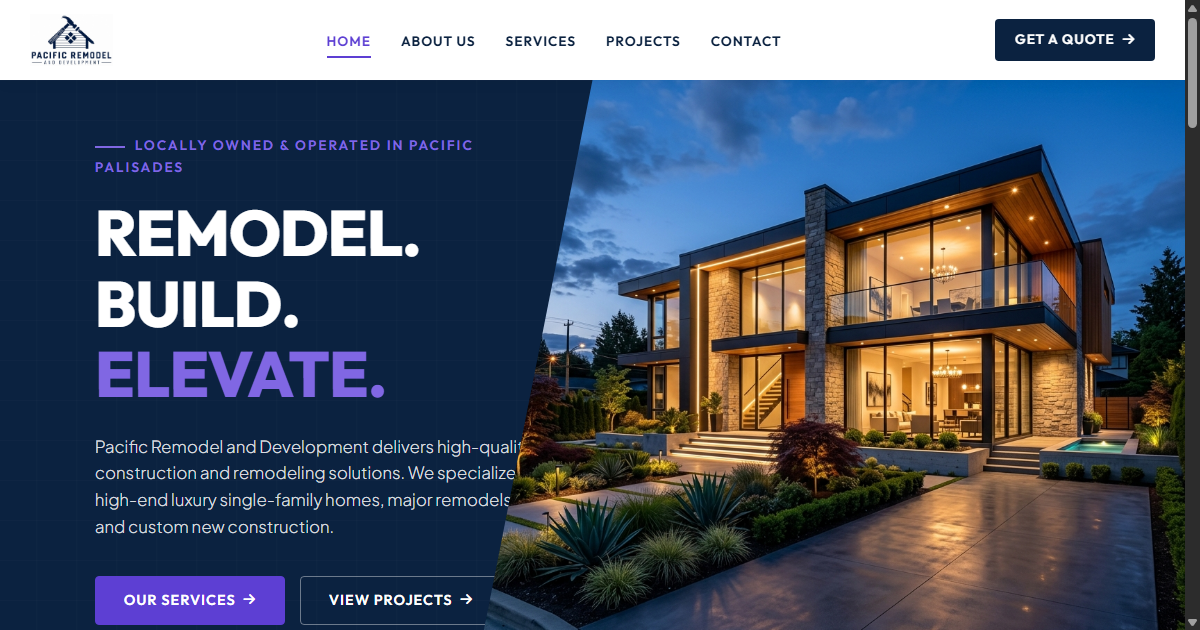
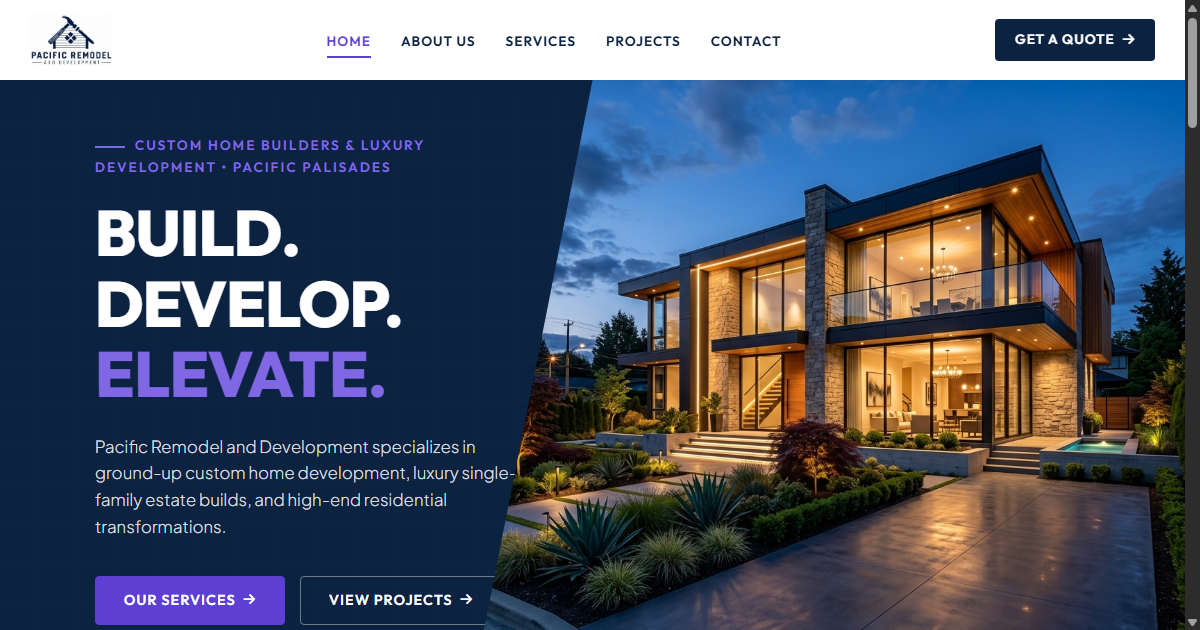
Refocus brand messaging on Custom Home Development & Architectural Builds

Changed region(s): [[0.0925, 0.3317, 0.37, 0.5429], [0.0617, 0.6937, 0.4317, 0.8444], [0.0617, 0.2111, 0.4008, 0.2714]]

diff --git a/index.html b/index.html
@@ -3,8 +3,8 @@
 <head>
     <meta charset="UTF-8">
     <meta name="viewport" content="width=device-width, initial-scale=1.0">
-    <title>General Contractor Pacific Palisades CA | Luxury Home Remodeling & Custom Builds</title>
-    <meta name="description" content="Premier licensed general contractor in Pacific Palisades & West Los Angeles. Specializing in luxury whole-home remodeling, gourmet kitchens, spa bath suites & custom home development.">
+    <title>Custom Home Builders & Development Pacific Palisades CA | Pacific Remodel & Development</title>
+    <meta name="description" content="Premier licensed custom home builder & developer in Pacific Palisades & West Los Angeles. Specializing in ground-up luxury home development, custom estate builds, & architectural transformations.">
     <!-- Google Fonts -->
     <link rel="preconnect" href="https://fonts.googleapis.com">
     <link rel="preconnect" href="https://fonts.gstatic.com" crossorigin>
@@ -142,14 +142,14 @@
             <div class="hero-content-col">
                 <div class="blueprint-grid"></div>
                 <div class="hero-text-content fade-in-up">
-                    <span class="hero-subtitle">LOCALLY OWNED & OPERATED IN PACIFIC PALISADES</span>
+                    <span class="hero-subtitle">CUSTOM HOME BUILDERS & LUXURY DEVELOPMENT • PACIFIC PALISADES</span>
                     <h1 class="hero-title">
-                        REMODEL.<br>
                         BUILD.<br>
+                        DEVELOP.<br>
                         <span class="text-accent-slate">ELEVATE.</span>
                     </h1>
                     <p class="hero-desc">
-                        Pacific Remodel and Development delivers high-quality construction and remodeling solutions. We specialize in high-end luxury single-family homes, major remodels, and custom new construction.
+                        Pacific Remodel and Development specializes in ground-up custom home development, luxury single-family estate builds, and high-end residential transformations.
                     </p>
                     <div class="hero-actions">
                         <a href="#services" class="btn btn-solid-blue">OUR SERVICES <i class="fa-solid fa-arrow-right"></i></a>

diff --git a/services.html b/services.html
@@ -3,7 +3,7 @@
 <head>
     <meta charset="UTF-8">
     <meta name="viewport" content="width=device-width, initial-scale=1.0">
-    <title>Remodeling Services Pacific Palisades & Los Angeles | Pacific Remodel & Development</title>
+    <title>Custom Home Development & Construction Services | Pacific Remodel & Development</title>
     <meta name="description" content="Explore luxury residential construction & remodeling services: whole-house remodels, custom gourmet kitchens, primary spa bathroom suites, & custom outdoor hardscaping.">
     <!-- Google Fonts -->
     <link rel="preconnect" href="https://fonts.googleapis.com">
@@ -88,7 +88,7 @@
                     <span>Services</span>
                 </div>
                 <h1 class="subpage-title">OUR SERVICES & CAPABILITIES</h1>
-                <p class="subpage-subtitle">Specializing in high-end luxury single-family homes, major remodels, custom kitchen & bath suites, and outdoor architectural developments in Pacific Palisades & Greater Los Angeles.</p>
+                <p class="subpage-subtitle">Specializing in ground-up luxury single-family home development, custom estate builds, and high-end architectural transformations in Pacific Palisades & Greater Los Angeles.</p>
             </div>
         </div>
     </section>

diff --git a/contact.html b/contact.html
@@ -3,7 +3,7 @@
 <head>
     <meta charset="UTF-8">
     <meta name="viewport" content="width=device-width, initial-scale=1.0">
-    <title>Contact Us & Request a Free Quote | Pacific Remodel and Development</title>
+    <title>Contact Us & Request a Build Consultation | Pacific Remodel and Development</title>
     <meta name="description" content="Contact Pacific Remodel and Development for a complimentary consultation on your remodeling or custom build project. Call (424) 777-6090 or visit 1215 Lachman Lane, Pacific Palisades.">
     <!-- Google Fonts -->
     <link rel="preconnect" href="https://fonts.googleapis.com">
